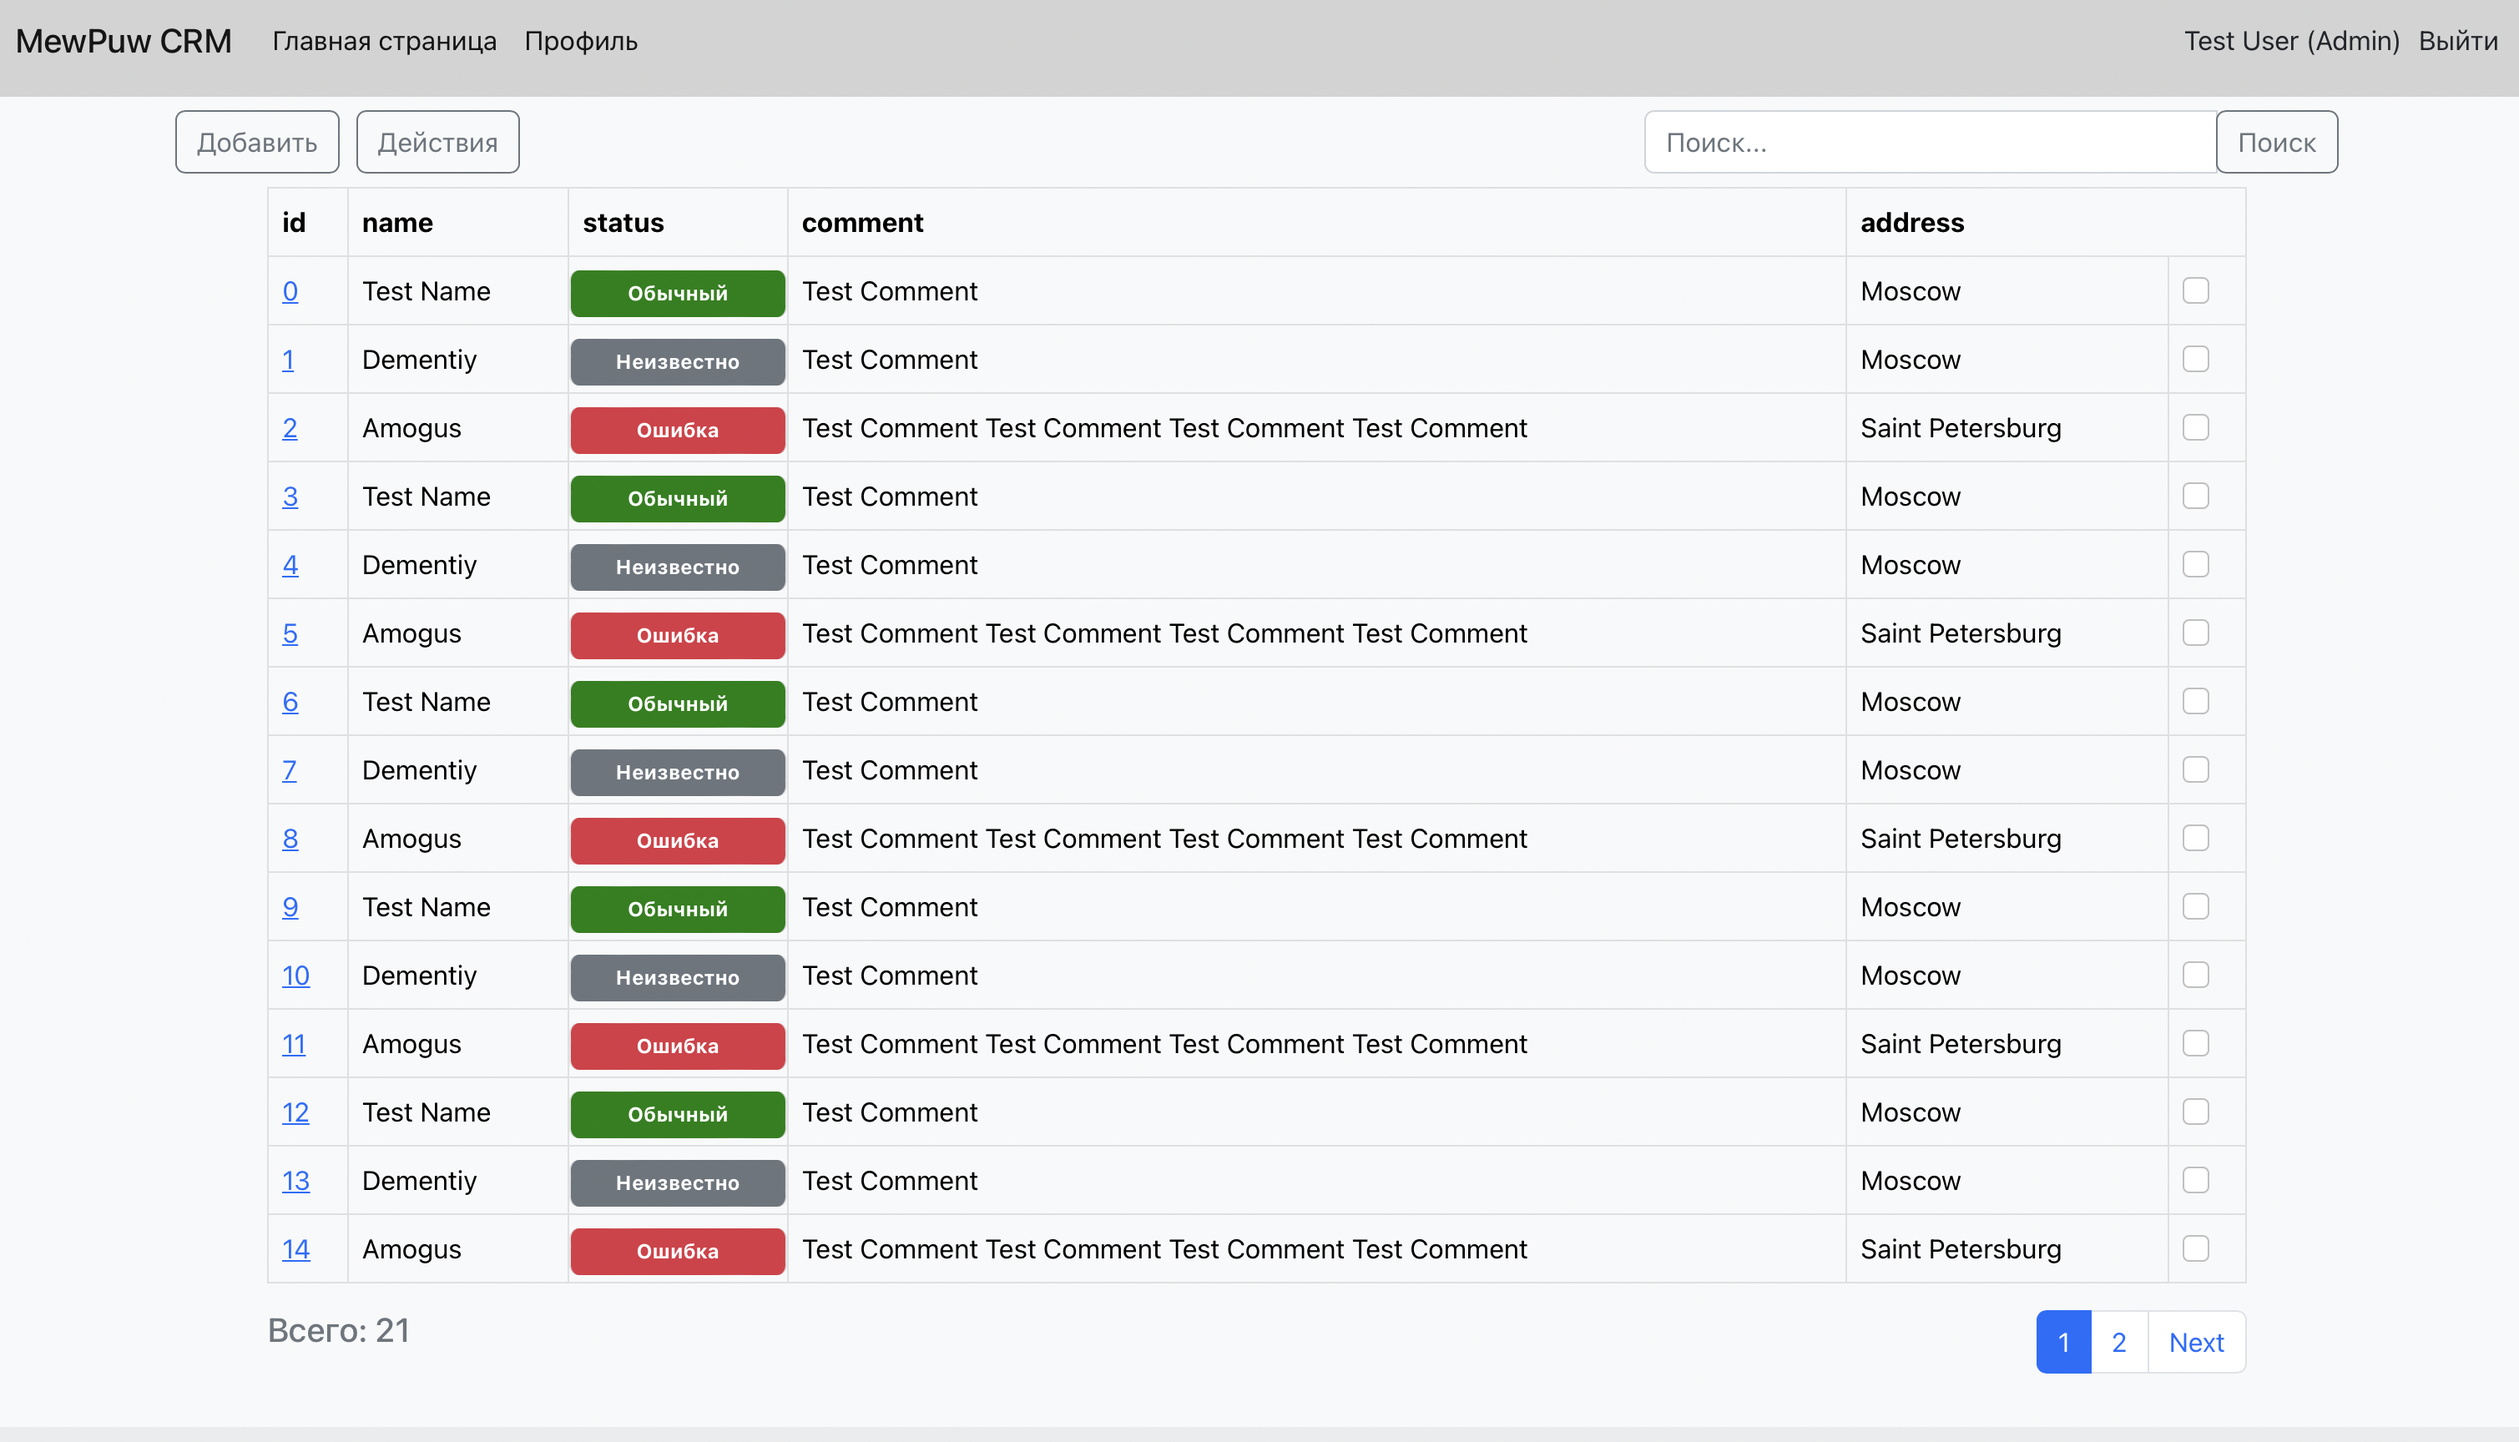
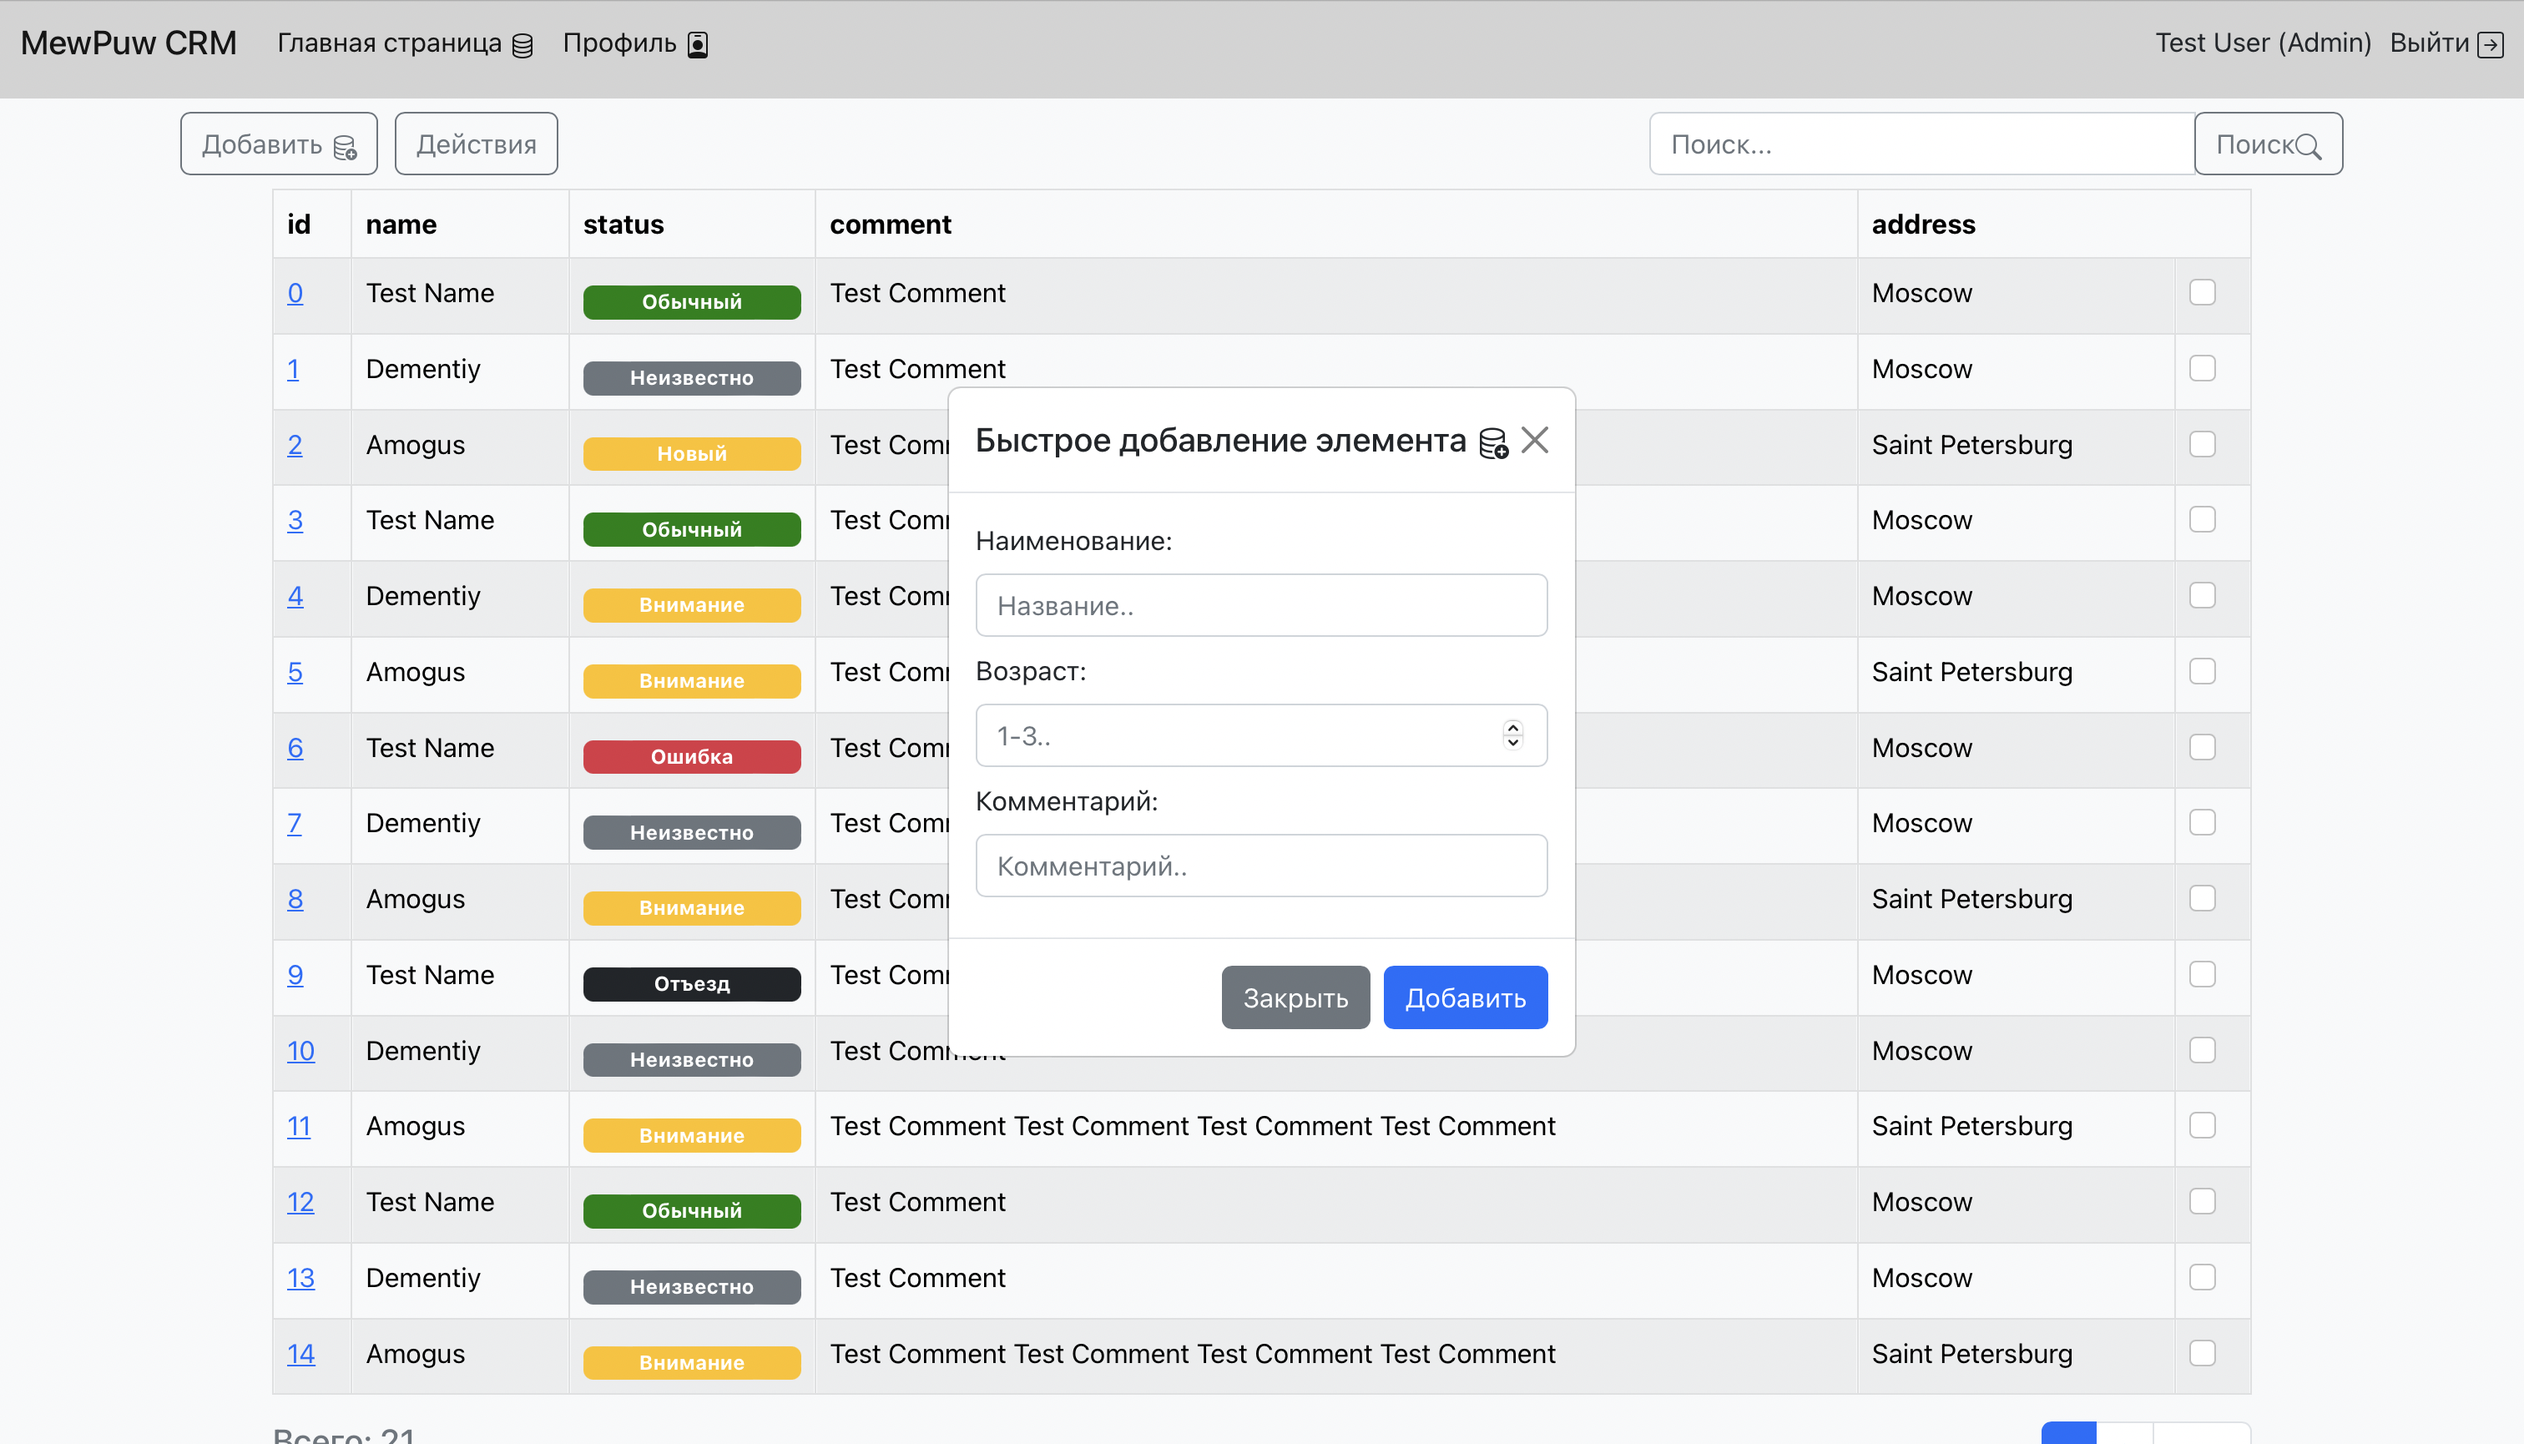
New: Mock modal window add item window

diff --git a/frontend/src/components/PopUpCreateWindow.jsx b/frontend/src/components/PopUpCreateWindow.jsx
@@ -1,0 +1,43 @@
+import { React } from 'react'
+import 'bootstrap/dist/css/bootstrap.min.css';
+import { BsDatabaseAdd } from "react-icons/bs";
+import classNames from 'classnames';
+
+export function PopUpCreate(props) {
+
+    const { active, fnc } = props
+
+    const disableModal = () => {
+        fnc(false)
+    }
+
+    const modalWindow = classNames("modal", active ? "modal-dialog-centered" : null)
+
+    return (
+        <div className={modalWindow} tabIndex="-1" id="addItemModal" style={{ display: active ? "flex" : null}}>
+            <div className="modal-dialog">
+                <div className="modal-content">
+                    <div className="modal-header">
+                        <h5 className="modal-title">Быстрое добавление элемента {<BsDatabaseAdd />} </h5>
+                        <button type="button" className="btn-close" data-bs-dismiss="modal" onClick={disableModal} aria-label="Закрыть"></button>
+                    </div>
+                    <div className="modal-body">
+                        <label className="form-label">Наименование:</label>
+                        <input type="text" className="form-control mb-2" placeholder="Название.."/>
+
+                        <label className="form-label">Возраст:</label>
+                        <input type="number" className="form-control mb-2" placeholder="1-3.."/>
+
+                        <label className="form-label">Комментарий:</label>
+                        <input type="text" className="form-control mb-2" placeholder="Комментарий.."/>
+                    </div>
+                    <div className="modal-footer">
+                        <button type="button" className="btn btn-secondary" data-bs-dismiss="modal" onClick={disableModal}>Закрыть</button>
+                        <button type="button" className="btn btn-primary">Добавить</button>
+                    </div>
+                </div>
+            </div>
+        </div>
+
+    )
+}

diff --git a/frontend/src/components/DataTable.jsx b/frontend/src/components/DataTable.jsx
@@ -39,6 +39,15 @@ const DataTable = () => {
             case "2":
                 badge = classNames("badge", "bg-secondary", "mt-2")
                 return [badge.split(' '), 'Неизвестно']
+            case "3":
+                badge = classNames("badge", "bg-warning", "mt-2")
+                return [badge.split(' '), 'Внимание']
+            case "4":
+                badge = classNames("badge", "bg-info", "mt-2")
+                return [badge.split(' '), 'Новый']
+            case "5":
+                badge = classNames("badge", "bg-dark", "mt-2")
+                return [badge.split(' '), 'Отъезд']
             default:
                 console.log('error')
                 return [['badge', 'bg-danger', 'mt-2'], 'Ошибка']
@@ -73,8 +82,8 @@ const DataTable = () => {
     const headerLocalisation = () => {
         const table = tableRef.current;
         const row = table.querySelector("thead tr");
-            console.log(row)
-        
+        console.log(row)
+
     }
 
     return (

diff --git a/frontend/src/components/SearchAndCreate.jsx b/frontend/src/components/SearchAndCreate.jsx
@@ -1,13 +1,20 @@
 import React from "react";
 import 'bootstrap/dist/css/bootstrap.min.css';
-import { BsSearch } from "react-icons/bs";
+import { BsSearch, BsDatabaseAdd } from "react-icons/bs";
 
-const SearchCreateBar = () => {
+const SearchCreateBar = (props) => {
+
+    const { openModal } = props
+
+    const createModal = (e) => {
+        e.preventDefault()
+        openModal(true)
+    }
 
     return (
         <div className="row mb-2">
             <div className="col-8">
-                <button className="btn btn-outline-secondary mr-2">Добавить</button>
+                <button className="btn btn-outline-secondary mr-2" onClick={createModal}>Добавить {<BsDatabaseAdd/>}</button>
                 <button className="btn btn-outline-secondary ml-2" style={{marginLeft: 10}}>Действия</button>
             </div>
             <div className="input-group col">

diff --git a/frontend/src/mockdata/DataTable.js b/frontend/src/mockdata/DataTable.js
@@ -16,7 +16,7 @@ const data = [
     {
         id: 2,
         name: "Amogus",
-        status: 3,
+        status: 4,
         comment: "Test Comment Test Comment Test Comment Test Comment",
         address: "Saint Petersburg",
     },
@@ -30,7 +30,7 @@ const data = [
     {
         id: 4,
         name: "Dementiy",
-        status: 2,
+        status: 3,
         comment: "Test Comment",
         address: "Moscow",
     },
@@ -44,7 +44,7 @@ const data = [
     {
         id: 6,
         name: "Test Name",
-        status: 1,
+        status: 6,
         comment: "Test Comment",
         address: "Moscow",
     },
@@ -65,7 +65,7 @@ const data = [
     {
         id: 9,
         name: "Test Name",
-        status: 1,
+        status: 5,
         comment: "Test Comment",
         address: "Moscow",
     },

diff --git a/frontend/src/scenes/Home.jsx b/frontend/src/scenes/Home.jsx
@@ -3,12 +3,16 @@ import { useNavigate } from 'react-router-dom';
 import 'bootstrap/dist/css/bootstrap.min.css';
 import DataTable from "../components/DataTable";
 import SearchCreateBar from "../components/SearchAndCreate";
+import { PopUpCreate } from "../components/PopUpCreateWindow";
 
 export default function Home() {
 
+    const [showModalAdd, setModalAdd] = useState(false)
+
     return (
         <div className="container">
-            <SearchCreateBar/>
+            <SearchCreateBar openModal={setModalAdd}/>
+            <PopUpCreate active={showModalAdd} fnc={setModalAdd} />
             <div className="row justify-content-center">
                 <div className="col-11 mb-3">
                     <DataTable />
